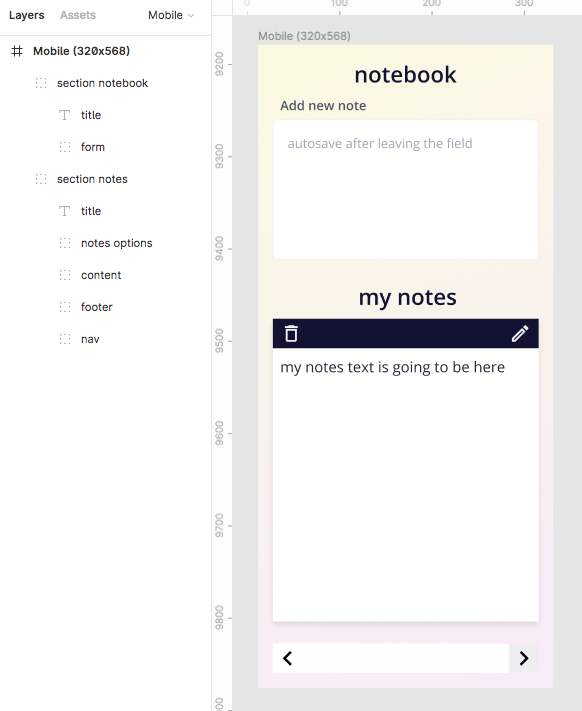
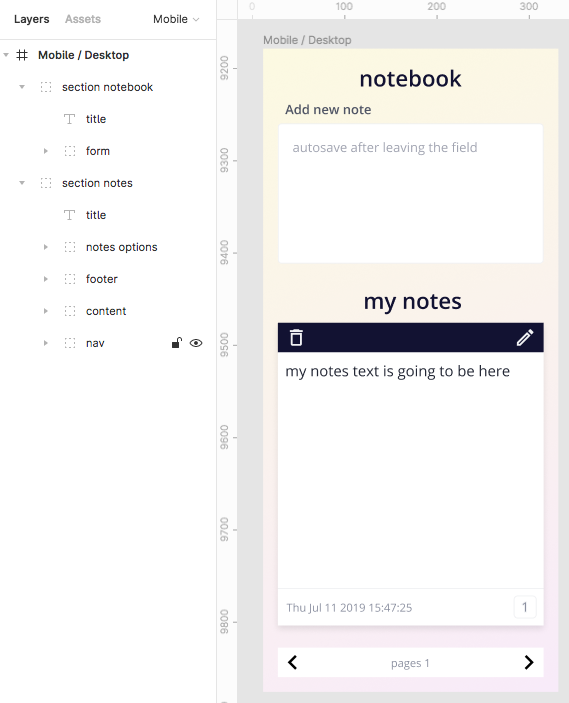
feat: add pagers counter to the project

diff --git a/public/assets/css/style.min.css b/public/assets/css/style.min.css
@@ -1,2 +1,2 @@
-/*! normalize.css v8.0.1 | MIT License | github.com/necolas/normalize.css */@import url(https://fonts.googleapis.com/css?family=Open+Sans:400,600&display=swap&subset=latin-ext);html{line-height:1.15;-webkit-text-size-adjust:100%}body{margin:0}main{display:block}h1{font-size:2em;margin:.67em 0}hr{box-sizing:content-box;height:0;overflow:visible}pre{font-family:monospace,monospace;font-size:1em}a{background-color:transparent}abbr[title]{border-bottom:none;text-decoration:underline;-webkit-text-decoration:underline dotted;text-decoration:underline dotted}b,strong{font-weight:bolder}code,kbd,samp{font-family:monospace,monospace;font-size:1em}small{font-size:80%}sub,sup{font-size:75%;line-height:0;position:relative;vertical-align:baseline}sub{bottom:-.25em}sup{top:-.5em}img{border-style:none}button,input,optgroup,select,textarea{font-family:inherit;font-size:100%;line-height:1.15;margin:0}button,input{overflow:visible}button,select{text-transform:none}[type=button],[type=reset],[type=submit],button{-webkit-appearance:button}[type=button]::-moz-focus-inner,[type=reset]::-moz-focus-inner,[type=submit]::-moz-focus-inner,button::-moz-focus-inner{border-style:none;padding:0}[type=button]:-moz-focusring,[type=reset]:-moz-focusring,[type=submit]:-moz-focusring,button:-moz-focusring{outline:1px dotted ButtonText}fieldset{padding:.35em .75em .625em}legend{box-sizing:border-box;color:inherit;display:table;max-width:100%;padding:0;white-space:normal}progress{vertical-align:baseline}textarea{overflow:auto}[type=checkbox],[type=radio]{box-sizing:border-box;padding:0}[type=number]::-webkit-inner-spin-button,[type=number]::-webkit-outer-spin-button{height:auto}[type=search]{-webkit-appearance:textfield;outline-offset:-2px}[type=search]::-webkit-search-decoration{-webkit-appearance:none}::-webkit-file-upload-button{-webkit-appearance:button;font:inherit}details{display:block}summary{display:list-item}template{display:none}[hidden]{display:none}html{box-sizing:border-box}*,::after,::before{box-sizing:inherit}body,html{min-height:100%}body{font-family:-apple-system,BlinkMacSystemFont,'Segoe UI',Roboto,Helvetica,Arial,sans-serif,'Apple Color Emoji','Segoe UI Emoji','Segoe UI Symbol'}code,kbd,pre,samp{font-family:SFMono-Regular,Consolas,'Liberation Mono',Menlo,Courier,monospace;font-size:1em}h1{font-size:2rem}h2{font-size:1.5rem}h3{font-size:1.17rem}h4{font-size:1rem}h5{font-size:.83rem}h6{font-size:.67rem}:root{--brand-01:#121333;--ui-01:#ffffff;--ui-03:#f0f1f3;--ui-05:#a1a4b2;--text-01:#232736;--text-02:#505566;--text-03:#8b90a1;--hover-row:#eeeef1;--bg-gradient:linear-gradient(135deg, #fffce1, #fbecfc);--max-width:288px;--space-xl:3rem;--space-l:2rem;--space-m:1.5rem;--space-s:1rem;--space-xs:0.5rem;--space-xxs:0.25rem;--elevation-03:0 4px 8px rgba(0, 0, 0, 0.1)}body{font-family:"Open Sans",sans-serif;font-weight:400;font-size:16px;line-height:1.5;background:var(--bg-gradient);color:var(--text-01)}h1,h2,h3,h4{font-family:"Open Sans",sans-serif;font-weight:600}body{display:flex;align-items:center;justify-content:center}.main{padding:var(--space-s);width:320px}.notebook{width:var(--max-width)}.notebook__title{font-size:1.5rem;font-weight:600;line-height:2rem;color:var(--brand-01);height:32px;text-align:center;margin:0;margin-bottom:var(--space-xs)}.notes{width:var(--max-width);margin-top:1.5rem;visibility:hidden;opacity:0;transition:visibility 0s,opacity .5s ease-in-out}.notes__title{font-size:1.5rem;font-weight:600;line-height:2rem;color:var(--brand-01);text-align:center;height:36px;margin:0;margin-bottom:var(--space-xxs)}.notes__list{list-style:none;margin:0;padding:0;width:100%;min-height:328px;position:relative}.notes__item{box-shadow:var(--elevation-03);position:absolute;top:0;left:0;right:0;bottom:0;width:100%;height:100%;background:var(--ui-01)}.notes__item--active{z-index:5}.notes__content{margin:var(--space-xs);min-height:240px}.notes--show{visibility:visible;opacity:1}.form{display:flex;flex-direction:column;width:100%}.form__label{font-size:.875rem;font-weight:600;color:var(--text-02);margin:0 var(--space-xs) var(--space-xxs) var(--space-xs)}.form__text{font-family:"Open Sans",sans-serif;font-weight:400;line-height:1.5rem;background:var(--ui-01);width:100%;height:152px;padding:1rem;resize:none;border-style:inset;border:1px solid var(--ui-03);border-radius:4px}.form__text::-webkit-input-placeholder{color:var(--ui-05)}.form__text::-moz-placeholder{color:var(--ui-05)}.form__text:-ms-input-placeholder{color:var(--ui-05)}.form__text::-ms-input-placeholder{color:var(--ui-05)}.form__text::placeholder{color:var(--ui-05)}.form__text:active,.form__text:focus{outline-color:var(--ui-05);outline-style:solid;outline-width:thin}.options-panel{background:var(--brand-01);display:flex;flex-direction:row;justify-content:space-between;max-width:var(--max-width);height:32px;padding:var(--space-xxs) var(--space-xs)}.options-panel__btn{background:0 0;display:block;border:none;padding:0;width:24px;height:24px;cursor:pointer}.options-panel__btn:active,.options-panel__btn:focus{outline-color:var(--ui-03);outline-style:solid;outline-width:thin}.options-panel__btn:active .options-panel__icon,.options-panel__btn:focus .options-panel__icon,.options-panel__btn:hover .options-panel__icon{-webkit-filter:brightness(.6);filter:brightness(.6)}.options-panel__icon{display:block}.notes-footer{border-top:1px solid var(--ui-03);display:flex;flex-direction:row;justify-content:space-between;padding:var(--space-xs);width:100%}.notes-footer__date{font-size:.75rem;color:var(--text-03);margin:0;vertical-align:middle;line-height:1.5rem}.notes-footer__page-number{display:inline-block;width:24px;height:24px;border-radius:4px;border:1px solid var(--ui-03);font-size:.875rem;text-align:center;vertical-align:middle;margin:0;color:var(--text-03)}.navigation{background:var(--ui-01);display:flex;flex-direction:row;justify-content:space-between;width:100%;height:32px;margin-top:var(--space-m)}.navigation__btn{background:0 0;display:block;border:none;padding:0;width:32px;height:32px;cursor:pointer}.navigation__btn:active,.navigation__btn:focus,.navigation__btn:hover{background:var(--hover-row);outline:var(--hover-row)}.navigation__image{display:block}
[1 lines of base64/hex data omitted]
+/*! normalize.css v8.0.1 | MIT License | github.com/necolas/normalize.css */@import url(https://fonts.googleapis.com/css?family=Open+Sans:400,600&display=swap&subset=latin-ext);html{line-height:1.15;-webkit-text-size-adjust:100%}body{margin:0}main{display:block}h1{font-size:2em;margin:.67em 0}hr{box-sizing:content-box;height:0;overflow:visible}pre{font-family:monospace,monospace;font-size:1em}a{background-color:transparent}abbr[title]{border-bottom:none;text-decoration:underline;-webkit-text-decoration:underline dotted;text-decoration:underline dotted}b,strong{font-weight:bolder}code,kbd,samp{font-family:monospace,monospace;font-size:1em}small{font-size:80%}sub,sup{font-size:75%;line-height:0;position:relative;vertical-align:baseline}sub{bottom:-.25em}sup{top:-.5em}img{border-style:none}button,input,optgroup,select,textarea{font-family:inherit;font-size:100%;line-height:1.15;margin:0}button,input{overflow:visible}button,select{text-transform:none}[type=button],[type=reset],[type=submit],button{-webkit-appearance:button}[type=button]::-moz-focus-inner,[type=reset]::-moz-focus-inner,[type=submit]::-moz-focus-inner,button::-moz-focus-inner{border-style:none;padding:0}[type=button]:-moz-focusring,[type=reset]:-moz-focusring,[type=submit]:-moz-focusring,button:-moz-focusring{outline:1px dotted ButtonText}fieldset{padding:.35em .75em .625em}legend{box-sizing:border-box;color:inherit;display:table;max-width:100%;padding:0;white-space:normal}progress{vertical-align:baseline}textarea{overflow:auto}[type=checkbox],[type=radio]{box-sizing:border-box;padding:0}[type=number]::-webkit-inner-spin-button,[type=number]::-webkit-outer-spin-button{height:auto}[type=search]{-webkit-appearance:textfield;outline-offset:-2px}[type=search]::-webkit-search-decoration{-webkit-appearance:none}::-webkit-file-upload-button{-webkit-appearance:button;font:inherit}details{display:block}summary{display:list-item}template{display:none}[hidden]{display:none}html{box-sizing:border-box}*,::after,::before{box-sizing:inherit}body,html{min-height:100%}body{font-family:-apple-system,BlinkMacSystemFont,'Segoe UI',Roboto,Helvetica,Arial,sans-serif,'Apple Color Emoji','Segoe UI Emoji','Segoe UI Symbol'}code,kbd,pre,samp{font-family:SFMono-Regular,Consolas,'Liberation Mono',Menlo,Courier,monospace;font-size:1em}h1{font-size:2rem}h2{font-size:1.5rem}h3{font-size:1.17rem}h4{font-size:1rem}h5{font-size:.83rem}h6{font-size:.67rem}:root{--brand-01:#121333;--ui-01:#ffffff;--ui-03:#f0f1f3;--ui-05:#a1a4b2;--text-01:#232736;--text-02:#505566;--text-03:#8b90a1;--hover-row:#eeeef1;--bg-gradient:linear-gradient(135deg, #fffce1, #fbecfc);--max-width:288px;--space-xl:3rem;--space-l:2rem;--space-m:1.5rem;--space-s:1rem;--space-xs:0.5rem;--space-xxs:0.25rem;--elevation-03:0 4px 8px rgba(0, 0, 0, 0.1)}body{font-family:"Open Sans",sans-serif;font-weight:400;font-size:16px;line-height:1.5;background:var(--bg-gradient);color:var(--text-01)}h1,h2,h3,h4{font-family:"Open Sans",sans-serif;font-weight:600}body{display:flex;align-items:center;justify-content:center}.main{padding:var(--space-s);width:320px}.notebook{width:var(--max-width)}.notebook__title{font-size:1.5rem;font-weight:600;line-height:2rem;color:var(--brand-01);height:32px;text-align:center;margin:0;margin-bottom:var(--space-xs)}.notes{width:var(--max-width);margin-top:1.5rem;visibility:hidden;opacity:0;transition:visibility 0s,opacity .5s ease-in-out}.notes__title{font-size:1.5rem;font-weight:600;line-height:2rem;color:var(--brand-01);text-align:center;height:36px;margin:0;margin-bottom:var(--space-xxs)}.notes__list{list-style:none;margin:0;padding:0;width:100%;min-height:328px;position:relative}.notes__item{box-shadow:var(--elevation-03);position:absolute;top:0;left:0;right:0;bottom:0;width:100%;height:100%;background:var(--ui-01)}.notes__item--active{z-index:5}.notes__content{margin:var(--space-xs);min-height:240px}.notes--show{visibility:visible;opacity:1}.form{display:flex;flex-direction:column;width:100%}.form__label{font-size:.875rem;font-weight:600;color:var(--text-02);margin:0 var(--space-xs) var(--space-xxs) var(--space-xs)}.form__text{font-family:"Open Sans",sans-serif;font-weight:400;line-height:1.5rem;background:var(--ui-01);width:100%;height:152px;padding:1rem;resize:none;border-style:inset;border:1px solid var(--ui-03);border-radius:4px}.form__text::-webkit-input-placeholder{color:var(--ui-05)}.form__text::-moz-placeholder{color:var(--ui-05)}.form__text:-ms-input-placeholder{color:var(--ui-05)}.form__text::-ms-input-placeholder{color:var(--ui-05)}.form__text::placeholder{color:var(--ui-05)}.form__text:active,.form__text:focus{outline-color:var(--ui-05);outline-style:solid;outline-width:thin}.options-panel{background:var(--brand-01);display:flex;flex-direction:row;justify-content:space-between;max-width:var(--max-width);height:32px;padding:var(--space-xxs) var(--space-xs)}.options-panel__btn{background:0 0;display:block;border:none;padding:0;width:24px;height:24px;cursor:pointer}.options-panel__btn:active,.options-panel__btn:focus{outline-color:var(--ui-03);outline-style:solid;outline-width:thin}.options-panel__btn:active .options-panel__icon,.options-panel__btn:focus .options-panel__icon,.options-panel__btn:hover .options-panel__icon{-webkit-filter:brightness(.6);filter:brightness(.6)}.options-panel__icon{display:block}.notes-footer{border-top:1px solid var(--ui-03);display:flex;flex-direction:row;justify-content:space-between;padding:var(--space-xs);width:100%}.notes-footer__date{font-size:.75rem;color:var(--text-03);margin:0;vertical-align:middle;line-height:1.5rem}.notes-footer__page-number{display:inline-block;width:24px;height:24px;border-radius:4px;border:1px solid var(--ui-03);font-size:.875rem;text-align:center;vertical-align:middle;margin:0;color:var(--text-03)}.navigation{background:var(--ui-01);display:flex;flex-direction:row;justify-content:space-between;width:100%;height:32px;margin-top:var(--space-m)}.navigation__btn{background:0 0;display:block;border:none;padding:0;width:32px;height:32px;cursor:pointer}.navigation__btn:active,.navigation__btn:focus,.navigation__btn:hover{background:var(--hover-row);outline:var(--hover-row)}.navigation__image{display:block}.navigation__counter{font-size:.75rem;color:var(--text-03);margin:0;vertical-align:middle;line-height:2rem}
[1 lines of base64/hex data omitted]

diff --git a/public/assets/js/main.min.js b/public/assets/js/main.min.js
@@ -8,6 +8,7 @@
 const noteText = document.querySelector('.form__text--js');
 const notesSection = document.querySelector('.notes--js');
 const notesList = document.querySelector('.notes__list--js');
+const pageCounter = document.querySelector('.counter--js');
 const swiper = new Hammer(notesList);
 const arrowLeft = document.querySelector('.navigation__left-btn--js');
 const arrowRight = document.querySelector('.navigation__right-btn--js');
@@ -117,6 +118,7 @@ const loadNote = () => {
 
     setListItems();
     addListener();
+    pageCounter.innerHTML = `pages ${notes.length}`;
     notesSection.classList.add('notes--show');
   } else {
     notesSection.classList.remove('notes--show');
@@ -195,6 +197,7 @@ const removeNote = event => {
 
     localStorage.setItem('notes', JSON.stringify(notes));
     setListItems();
+    pageCounter.innerHTML = `pages ${notes.length}`;
     if (notes.length === 0) {
       loadNote();
     }

diff --git a/src/js/editor.js b/src/js/editor.js
@@ -1,6 +1,7 @@
 const noteText = document.querySelector('.form__text--js');
 const notesSection = document.querySelector('.notes--js');
 const notesList = document.querySelector('.notes__list--js');
+const pageCounter = document.querySelector('.counter--js');
 const swiper = new Hammer(notesList);
 const arrowLeft = document.querySelector('.navigation__left-btn--js');
 const arrowRight = document.querySelector('.navigation__right-btn--js');
@@ -110,6 +111,7 @@ const loadNote = () => {
 
     setListItems();
     addListener();
+    pageCounter.innerHTML = `pages ${notes.length}`;
     notesSection.classList.add('notes--show');
   } else {
     notesSection.classList.remove('notes--show');
@@ -188,6 +190,7 @@ const removeNote = event => {
 
     localStorage.setItem('notes', JSON.stringify(notes));
     setListItems();
+    pageCounter.innerHTML = `pages ${notes.length}`;
     if (notes.length === 0) {
       loadNote();
     }

diff --git a/public/index.html b/public/index.html
@@ -35,6 +35,7 @@
               class="navigation__btn-image"
             />
           </button>
+          <span class="navigation__counter counter--js"></span>
           <button class="navigation__btn navigation__right-btn--js">
             <img
               src="/assets/images/arrow-right.svg"

diff --git a/src/html/index.html b/src/html/index.html
@@ -35,6 +35,7 @@
               class="navigation__btn-image"
             />
           </button>
+          <span class="navigation__counter counter--js"></span>
           <button class="navigation__btn navigation__right-btn--js">
             <img
               src="/assets/images/arrow-right.svg"

diff --git a/src/scss/03-components/_notes-navigation.scss b/src/scss/03-components/_notes-navigation.scss
@@ -27,4 +27,12 @@
   &__image {
     display: block;
   }
+
+  &__counter {
+    font-size: 0.75rem;
+    color: var(--text-03);
+    margin: 0;
+    vertical-align: middle;
+    line-height: 2rem;
+  }
 }
